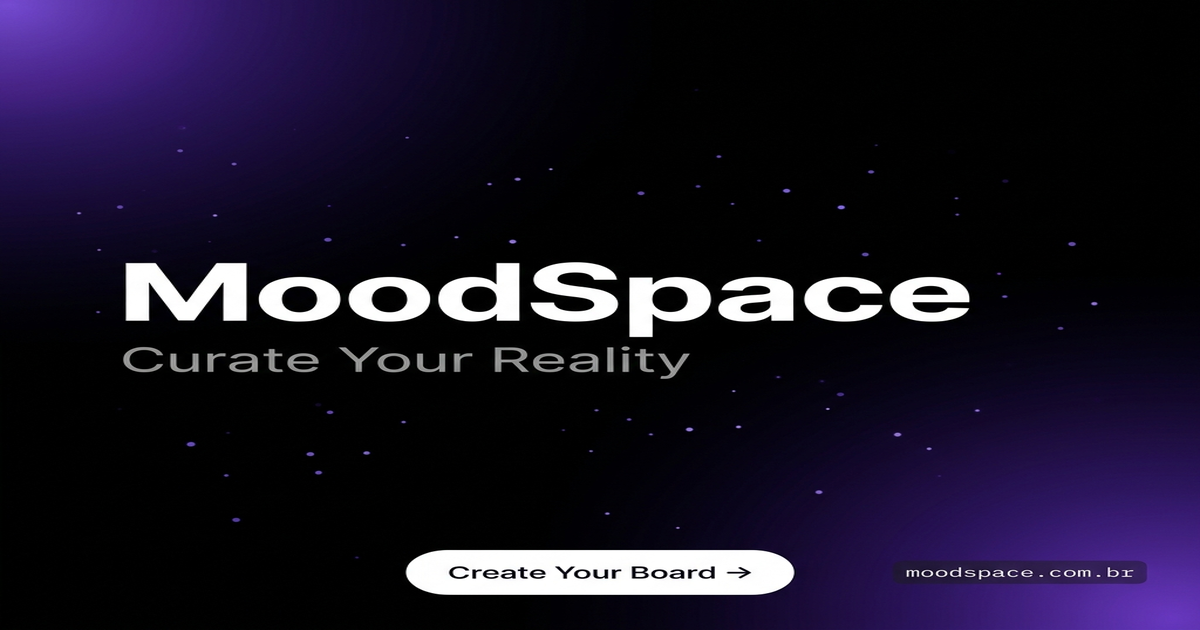
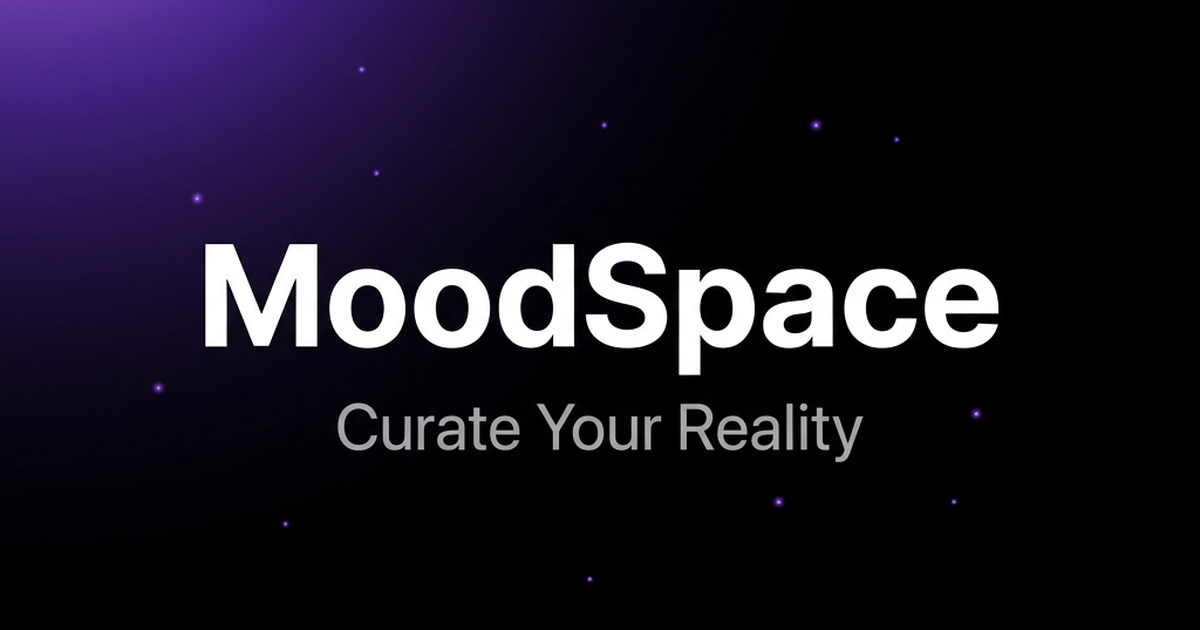
fix: include vercel/og dependencies in Dockerfile and update page metadata titles for improved OG rendering

diff --git a/src/app/[handle]/page.tsx b/src/app/[handle]/page.tsx
@@ -41,10 +41,9 @@ export async function generateMetadata({ params }: Props): Promise<Metadata> {
     const displayName = user.name || `@${user.username}`;
     const name = user.name || username;
 
-    // Título padronizado: "Nome (@user) no MoodSpace — Curate Your Reality"
-    // Garante >= 50 chars para todas as ferramentas de OG
-    const baseTitle = `${name} (@${user.username}) no MoodSpace`;
-    const title = baseTitle.length >= 50 ? baseTitle : `${baseTitle} ${separator} Curate Your Reality`;
+    // Título padronizado — Garante >= 50 chars para todas as ferramentas de OG
+    // "Nyo (@nyo) — Mural Estético e Imersivo no MoodSpace" = 52 chars ✓
+    const title = `${displayName} (@${user.username}) — Mural Estético e Imersivo no MoodSpace`;
     const description = `Explore o mural pessoal e imersivo de @${user.username} no MoodSpace. Um espaço único de expressão visual com músicas, GIFs e estética curada. Crie o seu hoje.`;
 
     // CRÍTICO: URL absoluta para o Discord conseguir buscar a imagem